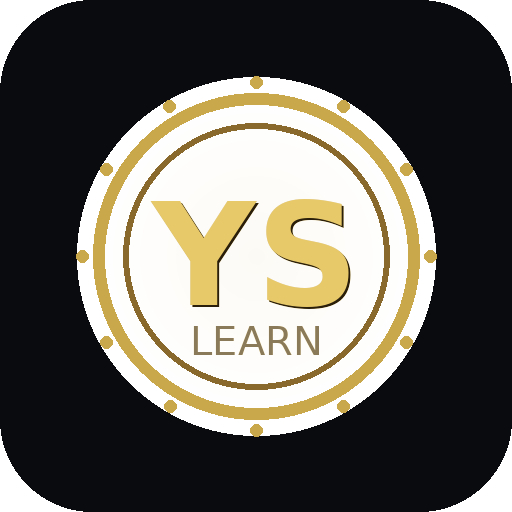
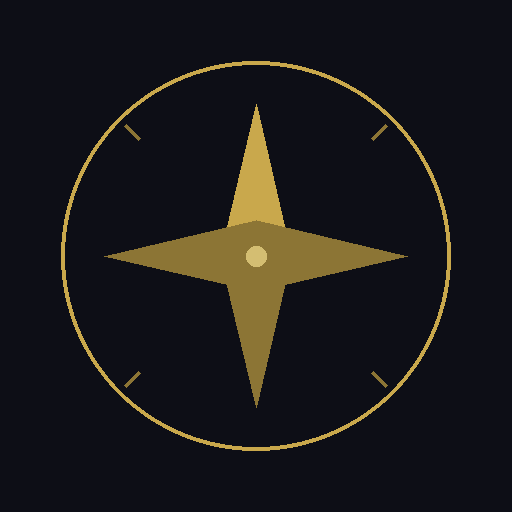
feat: 앱 아이콘 → 골드 나침반 + 대시보드 SVG 코스 아이콘 교체
- YS LEARN 이니셜 제거 → 자기계발 상징 나침반(compass rose) 디자인
- 골드(#C9A84C) + 다크(#0D0E16) MAISON DE SAVOIR 테마 통일
- 6개 아이콘 파일 교체 (180/32/192/512, maskable 포함)
- 대시보드 과목 아이콘: 이모지 → SVG 라인 아이콘
- course-icon hover 효과: 골드 글로우 전환

diff --git a/dashboard.html b/dashboard.html
@@ -68,7 +68,9 @@ a{color:inherit;text-decoration:none}button{font-family:inherit;cursor:pointer;b
 .course-card::before{content:'';position:absolute;left:0;top:0;bottom:0;width:2px;background:transparent;transition:background .3s}
 .course-card:hover{border-color:var(--gold);box-shadow:0 0 20px rgba(201,168,76,.06)}
 .course-card:hover::before{background:var(--gold)}
-.course-icon{font-size:20px;margin-bottom:8px}
+.course-icon{width:40px;height:40px;border-radius:10px;background:rgba(255,255,255,0.03);border:1px solid var(--border);display:flex;align-items:center;justify-content:center;margin-bottom:10px;transition:all .3s}
+.course-card:hover .course-icon{border-color:var(--gold);background:var(--gold-dim);color:var(--gold)!important;box-shadow:0 0 12px rgba(201,168,76,.1)}
+.course-icon svg{width:20px;height:20px}
 .course-name{font-size:14px;font-weight:400;color:var(--text);margin-bottom:12px}
 .cpb{width:100%;height:1px;background:var(--border);margin-bottom:6px}
 .cpf{height:100%;background:var(--gold);transition:width .5s}
@@ -242,7 +244,7 @@ a{color:inherit;text-decoration:none}button{font-family:inherit;cursor:pointer;b
 <script src="https://www.gstatic.com/firebasejs/10.14.1/firebase-database-compat.js"></script>
 <script>
 "use strict";
-const C=[{id:'vd',name:'차량동역학',icon:'\u2694',color:'#c23b22',folder:'VehicleDynamics_Lectures',lessons:[{d:1,f:'Day01_운동방정식유도.html',t:'운동방정식 유도'},{d:2,f:'Day02_비감쇠자유진동.html',t:'비감쇠 자유진동'},{d:3,f:'Day03_감쇠비정의.html',t:'감쇠비 정의'},{d:4,f:'Day04_부족감쇠자유진동.html',t:'부족감쇠 자유진동'},{d:5,f:'Day05_강제조화진동.html',t:'강제조화 진동'},{d:6,f:'Day06_위상각유도.html',t:'위상각 유도'},{d:7,f:'Day07_공진조건분석.html',t:'공진조건 분석'},{d:8,f:'Day08_쿼터카모델.html',t:'쿼터카 모델'},{d:9,f:'Day09_쿼터카고유진동수.html',t:'쿼터카 고유진동수'},{d:10,f:'Day10_하프카모델.html',t:'하프카 모델'},{d:11,f:'Day11_하프카모드해석.html',t:'하프카 모드해석'},{d:12,f:'Day12_전달함수유도.html',t:'전달함수 유도'},{d:13,f:'Day13_전달률방진설계.html',t:'전달률 방진설계'},{d:14,f:'Day14_노면스펙트럼승차감.html',t:'노면스펙트럼 승차감'},{d:15,f:'Day15_Part2복습.html',t:'Part2 복습'},{d:16,f:'Day16_스프링특성.html',t:'스프링 특성'},{d:17,f:'Day17_댐퍼모델.html',t:'댐퍼 모델'},{d:18,f:'Day18_부싱복소강성.html',t:'부싱 복소강성'},{d:19,f:'Day19_타이어수직동특성.html',t:'타이어 수직동특성'},{d:20,f:'Day20_TireHop.html',t:'Tire Hop'},{d:21,f:'Day21_승차감트레이드오프.html',t:'승차감 트레이드오프'},{d:22,f:'Day22_Part3복습.html',t:'Part3 복습'},{d:23,f:'Day23_푸리에변환.html',t:'푸리에 변환'},{d:24,f:'Day24_PSD정의.html',t:'PSD 정의'},{d:25,f:'Day25_FRF측정.html',t:'FRF 측정'},{d:26,f:'Day26_고유치문제.html',t:'고유치 문제'},{d:27,f:'Day27_모드중첩법.html',t:'모드중첩법'},{d:28,f:'Day28_Part4복습.html',t:'Part4 복습'},{d:29,f:'Day29_수식Simpack매핑.html',t:'수식-Simpack 매핑'},{d:30,f:'Day30_QuarterCar구현.html',t:'QuarterCar 구현'},{d:31,f:'Day31_FRF상관성.html',t:'FRF 상관성'},{d:32,f:'Day32_CoSimulation.html',t:'Co-Simulation'},{d:33,f:'Day33_디지털트윈완성.html',t:'디지털트윈 완성'},{d:34,f:'Day34_서스펜션기구학기초.html',t:'서스펜션 기구학 기초'},{d:35,f:'Day35_캠버기하학.html',t:'캠버 기하학'},{d:36,f:'Day36_토기하학.html',t:'토 기하학'},{d:37,f:'Day37_킹핀기하학.html',t:'킹핀 기하학'},{d:38,f:'Day38_롤센터안티지오메트리.html',t:'롤센터 안티지오메트리'},{d:39,f:'Day39_순간중심롤스티어.html',t:'순간중심 롤스티어'},{d:40,f:'Day40_KC시뮬레이션통합.html',t:'KC 시뮬레이션 통합'},{d:41,f:'Day41_애커만기하학.html',t:'애커만 기하학'},{d:42,f:'Day42_랙피니언역학.html',t:'랙피니언 역학'},{d:43,f:'Day43_전동파워스티어링.html',t:'전동 파워스티어링'},{d:44,f:'Day44_코너링포스슬립각.html',t:'코너링포스 슬립각'},{d:45,f:'Day45_언더오버스티어.html',t:'언더/오버스티어'},{d:46,f:'Day46_요응답전달함수.html',t:'요응답 전달함수'},{d:47,f:'Day47_디스크브레이크열역학.html',t:'디스크브레이크 열역학'},{d:48,f:'Day48_유압제동시스템.html',t:'유압 제동시스템'},{d:49,f:'Day49_제동력배분하중이동.html',t:'제동력배분 하중이동'},{d:50,f:'Day50_ABS_ESC제어.html',t:'ABS/ESC 제어'},{d:51,f:'Day51_회생제동시스템.html',t:'회생제동 시스템'},{d:52,f:'Day52_통합브레이크시스템.html',t:'통합 브레이크 시스템'},{d:53,f:'Day53_EV차량동역학.html',t:'EV 차량동역학'},{d:54,f:'Day54_안티롤바설계.html',t:'안티롤바 설계'},{d:55,f:'Day55_풀카모델.html',t:'풀카 모델'},{d:56,f:'Day56_능동반능동서스펜션.html',t:'능동/반능동 서스펜션'},{d:57,f:'Day57_컴플라이언스스티어.html',t:'컴플라이언스 스티어'},{d:58,f:'Day58_내구하중스펙트럼.html',t:'내구 하중 스펙트럼'},{d:59,f:'Day59_승차감주관평가.html',t:'승차감 주관평가'},{d:60,f:'Day60_타이어횡방향모델.html',t:'타이어 횡방향 모델'},{d:61,f:'Udemy/section1.html',t:'[Udemy] Suspension Modeling'},{d:62,f:'Udemy/section2.html',t:'[Udemy] Differential Equations'},{d:63,f:'Udemy/section3.html',t:'[Udemy] Linearization'},{d:64,f:'Udemy/section4.html',t:'[Udemy] State-Space System'},{d:65,f:'Udemy/section5.html',t:'[Udemy] Last Words'}]},{id:'en',name:'에너지관리',icon:'\u26A1',color:'#4a8b5c',folder:'Energy_Lectures',lessons:[{d:1,f:'day01_energy_systems.html',t:'에너지 시스템'},{d:2,f:'day02_mitochondria.html',t:'미토콘드리아'},{d:3,f:'day03_hormones.html',t:'호르몬'},{d:4,f:'day04_autonomic.html',t:'자율신경계'},{d:5,f:'day05_review.html',t:'Part1 복습'},{d:6,f:'day06_sleep_architecture.html',t:'수면 구조'},{d:7,f:'day07_sleep_hormones.html',t:'수면 호르몬'},{d:8,f:'day08_sleep_environment.html',t:'수면 환경'},{d:9,f:'day09_sleep_debt.html',t:'수면 부채'},{d:10,f:'day10_sleep_tracking.html',t:'수면 추적'},{d:11,f:'day11_nutrition_basics.html',t:'영양 기초'},{d:12,f:'day12_protein.html',t:'단백질'},{d:13,f:'day13_carbs.html',t:'탄수화물'},{d:14,f:'day14_fats_micros.html',t:'지방·미량영양소'},{d:15,f:'day15_hydration_caffeine.html',t:'수분·카페인'},{d:16,f:'day16_meal_timing.html',t:'식사 타이밍'},{d:17,f:'day17_nutrition_review.html',t:'영양 복습'},{d:18,f:'day18_hypertrophy_science.html',t:'근비대 과학'},{d:19,f:'day19_big_three.html',t:'빅3 운동'},{d:20,f:'day20_upper_body.html',t:'상체 운동'},{d:21,f:'day21_lower_core.html',t:'하체·코어'},{d:22,f:'day22_periodization.html',t:'주기화'},{d:23,f:'day23_injury_mobility.html',t:'부상·모빌리티'},{d:24,f:'day24_recovery.html',t:'회복'},{d:25,f:'day25_weight_review.html',t:'웨이트 복습'},{d:26,f:'day26_vo2max_lactate.html',t:'VO2max·젖산'},{d:27,f:'day27_running_form.html',t:'러닝 폼'},{d:28,f:'day28_interval_training.html',t:'인터벌 트레이닝'},{d:29,f:'day29_zone_training.html',t:'존 트레이닝'},{d:30,f:'day30_concurrent_training.html',t:'동시 트레이닝'},{d:31,f:'day31_running_review.html',t:'러닝 복습'},{d:32,f:'day32_hrv.html',t:'HRV'},{d:33,f:'day33_immune_energy.html',t:'면역·에너지'},{d:34,f:'day34_fatigue_overtraining.html',t:'피로·과훈련'},{d:35,f:'day35_travel_seasonal.html',t:'여행·시즌'},{d:36,f:'day36_condition_review.html',t:'컨디션 복습'},{d:37,f:'day37_morning_routine.html',t:'아침 루틴'},{d:38,f:'day38_evening_routine.html',t:'저녁 루틴'},{d:39,f:'day39_weekend_routine.html',t:'주말 루틴'},{d:40,f:'day40_routine_review.html',t:'루틴 복습'},{d:41,f:'day41_stress_neuroscience.html',t:'스트레스 신경과학'},{d:42,f:'day42_meditation_breathwork.html',t:'명상·호흡'},{d:43,f:'day43_flow_state.html',t:'몰입 상태'},{d:44,f:'day44_emotional_regulation.html',t:'감정 조절'},{d:45,f:'day45_mental_review.html',t:'멘탈 복습'},{d:46,f:'day46_biohacking_tech.html',t:'바이오해킹'},{d:47,f:'day47_supplementation.html',t:'보충제'},{d:48,f:'day48_social_energy.html',t:'사회적 에너지'},{d:49,f:'day49_digital_detox.html',t:'디지털 디톡스'},{d:50,f:'day50_final_integration.html',t:'최종 통합'}]},{id:'hu',name:'인간학',icon:'\uD83E\uDDE0',color:'#8a6abf',folder:'Human_Lectures',lessons:[{d:1,f:'day01_감정이란_무엇인가.html',t:'감정이란 무엇인가'},{d:2,f:'day02_스트레스_호르몬_회로.html',t:'스트레스 호르몬 회로'},{d:3,f:'day03_INFP_감정처리_패턴.html',t:'INFP 감정처리 패턴'},{d:4,f:'day04_인지적_재평가.html',t:'인지적 재평가'},{d:5,f:'day05_메타인지_훈련.html',t:'메타인지 훈련'},{d:6,f:'day06_감정조절_실전_직장.html',t:'감정조절 실전 직장'},{d:7,f:'day07_신뢰의_신경과학.html',t:'신뢰의 신경과학'},{d:8,f:'day08_공감의_두_종류.html',t:'공감의 두 종류'},{d:9,f:'day09_어서티브_커뮤니케이션.html',t:'어서티브 커뮤니케이션'},{d:10,f:'day10_갈등의_신경과학.html',t:'갈등의 신경과학'},{d:11,f:'day11_피드백_주고받기.html',t:'피드백 주고받기'},{d:12,f:'day12_통합복습_Part1_2.html',t:'통합복습 Part1-2'},{d:13,f:'day13_스토아_통제의_이분법.html',t:'스토아 통제의 이분법'},{d:14,f:'day14_아우렐리우스_실천.html',t:'아우렐리우스 실천'},{d:15,f:'day15_불교적_무상관.html',t:'불교적 무상관'},{d:16,f:'day16_프랭클_의미치료.html',t:'프랭클 의미치료'},{d:17,f:'day17_흐름_상태.html',t:'흐름 상태'},{d:18,f:'day18_철학_프레임_통합.html',t:'철학 프레임 통합'},{d:19,f:'day19_가치관_명료화.html',t:'가치관 명료화'},{d:20,f:'day20_정체성과_역할_통합.html',t:'정체성과 역할 통합'},{d:21,f:'day21_결정의_철학.html',t:'결정의 철학'},{d:22,f:'day22_나만의_감정관리_시스템.html',t:'나만의 감정관리 시스템'}]},{id:'fr',name:'프랑스어',icon:'\uD83C\uDDEB\uD83C\uDDF7',color:'#bf8a4a',folder:'Franch_Lectures',lessons:[{d:1,f:'day-01-pronunciation.html',t:'발음'},{d:2,f:'day-02-greetings.html',t:'인사'},{d:3,f:'day-03-vocab-partA.html',t:'어휘 A'},{d:4,f:'day-04-vocab-partB.html',t:'어휘 B'},{d:5,f:'day-05-numbers-units.html',t:'숫자·단위'},{d:6,f:'day-06-email-expressions.html',t:'이메일 표현'},{d:7,f:'day-07-review-part1.html',t:'Part1 복습'},{d:8,f:'day-08-meeting-expressions.html',t:'회의 표현'},{d:9,f:'day-09-technical-explanation.html',t:'기술 설명'},{d:10,f:'day-10-problem-reporting.html',t:'문제 보고'},{d:11,f:'day-11-scheduling.html',t:'일정 조율'},{d:12,f:'day-12-presentation.html',t:'프레젠테이션'},{d:13,f:'day-13-negotiation.html',t:'협상'},{d:14,f:'day-14-review-part2.html',t:'Part2 복습'},{d:15,f:'day-15-present-tense.html',t:'현재시제'},{d:16,f:'day-16-passe-compose.html',t:'복합과거'},{d:17,f:'day-17-conditionnel.html',t:'조건법'},{d:18,f:'day-18-passive-impersonal.html',t:'수동·비인칭'},{d:19,f:'day-19-questions-negation.html',t:'의문·부정'},{d:20,f:'day-20-review-part3.html',t:'Part3 복습'},{d:21,f:'day-21-french-culture.html',t:'프랑스 문화'},{d:22,f:'day-22-email-correction.html',t:'이메일 교정'},{d:23,f:'day-23-roleplay-meeting.html',t:'롤플레이 회의'},{d:24,f:'day-24-roleplay-email.html',t:'롤플레이 이메일'},{d:25,f:'day-25-self-intro-presentation.html',t:'자기소개 PT'},{d:26,f:'day-26-final-review.html',t:'최종 복습'}]},{id:'pa',name:'육아·부학',icon:'\uD83D\uDC76',color:'#4abfbf',folder:'Parenting_Lectures',lessons:[{d:1,f:'day01_brain_development.html',t:'뇌 발달'},{d:2,f:'day02_attachment_theory.html',t:'애착 이론'},{d:3,f:'day03_dad_play_neuroscience.html',t:'아빠 놀이 신경과학'},{d:4,f:'day04_self_regulation.html',t:'자기 조절'},{d:5,f:'day05_cognitive_development.html',t:'인지 발달'},{d:6,f:'day06_language_explosion.html',t:'언어 폭발'},{d:7,f:'day07_part1_review.html',t:'Part1 복습'},{d:8,f:'day08_sibling_jealousy.html',t:'형제 질투'},{d:9,f:'day09_fairness_equity.html',t:'공정·형평'},{d:10,f:'day10_sibling_cooperation.html',t:'형제 협력'},{d:11,f:'day11_one_on_one_time.html',t:'1:1 시간'},{d:12,f:'day12_part2_review.html',t:'Part2 복습'},{d:13,f:'day13_parenting_stress.html',t:'양육 스트레스'},{d:14,f:'day14_gottman_marriage_science.html',t:'가트만 부부과학'},{d:15,f:'day15_dual_income_communication.html',t:'맞벌이 소통'},{d:16,f:'day16_coparenting_alignment.html',t:'공동양육 정렬'},{d:17,f:'day17_part3_review.html',t:'Part3 복습'},{d:18,f:'day18_focused_play_design.html',t:'집중놀이 설계'},{d:19,f:'day19_bedtime_routine.html',t:'취침 루틴'},{d:20,f:'day20_emotion_coaching.html',t:'감정 코칭'},{d:21,f:'day21_dad_routine_system.html',t:'아빠 루틴 시스템'}]},{id:'ec',name:'재테크',icon:'\uD83D\uDCB0',color:'#c9a84c',folder:'Economics_Lectures',lessons:[{d:1,f:'day01_financial_goal_setting.html',t:'재무 목표 설정'},{d:2,f:'day02_compound_interest.html',t:'복리의 힘'},{d:3,f:'day03_asset_pipeline.html',t:'자산 파이프라인'},{d:4,f:'day04_mortgage_optimization.html',t:'대출 최적화'},{d:5,f:'day05_risk_assessment.html',t:'리스크 평가'},{d:6,f:'day06_behavioral_finance.html',t:'행동재무학'},{d:7,f:'day07_part1_review.html',t:'Part1 복습'},{d:8,f:'day08_valuation_basics.html',t:'밸류에이션 기초'},{d:9,f:'day09_semiconductor_analysis.html',t:'반도체 분석'},{d:10,f:'day10_financial_statements.html',t:'재무제표'},{d:11,f:'day11_technical_analysis.html',t:'기술적 분석'},{d:12,f:'day12_timing_principles.html',t:'타이밍 원칙'},{d:13,f:'day13_kospi_discount.html',t:'KOSPI 디스카운트'},{d:14,f:'day14_part2_review.html',t:'Part2 복습'},{d:15,f:'day15_real_estate_cycle.html',t:'부동산 사이클'},{d:16,f:'day16_house_swap_simulation.html',t:'갈아타기 시뮬레이션'},{d:17,f:'day17_rebalancing.html',t:'리밸런싱'},{d:18,f:'day18_global_diversification.html',t:'글로벌 분산투자'},{d:19,f:'day19_part3_review.html',t:'Part3 복습'},{d:20,f:'day20_tax_optimization.html',t:'절세 전략'},{d:21,f:'day21_financial_income_tax.html',t:'금융소득세'},{d:22,f:'day22_financial_automation.html',t:'재무 자동화'},{d:23,f:'day23_final_roadmap.html',t:'최종 로드맵'}]}];
+const C=[{id:'vd',name:'차량동역학',icon:'<svg viewBox="0 0 24 24" fill="none" stroke="currentColor" stroke-width="1.4" stroke-linecap="round"><line x1="12" y1="2" x2="12" y2="5"/><path d="M7 7l5 2 5-2M7 11l5 2 5-2M7 15l5 2 5-2"/><line x1="12" y1="19" x2="12" y2="22"/></svg>',color:'#c23b22',folder:'VehicleDynamics_Lectures',lessons:[{d:1,f:'Day01_운동방정식유도.html',t:'운동방정식 유도'},{d:2,f:'Day02_비감쇠자유진동.html',t:'비감쇠 자유진동'},{d:3,f:'Day03_감쇠비정의.html',t:'감쇠비 정의'},{d:4,f:'Day04_부족감쇠자유진동.html',t:'부족감쇠 자유진동'},{d:5,f:'Day05_강제조화진동.html',t:'강제조화 진동'},{d:6,f:'Day06_위상각유도.html',t:'위상각 유도'},{d:7,f:'Day07_공진조건분석.html',t:'공진조건 분석'},{d:8,f:'Day08_쿼터카모델.html',t:'쿼터카 모델'},{d:9,f:'Day09_쿼터카고유진동수.html',t:'쿼터카 고유진동수'},{d:10,f:'Day10_하프카모델.html',t:'하프카 모델'},{d:11,f:'Day11_하프카모드해석.html',t:'하프카 모드해석'},{d:12,f:'Day12_전달함수유도.html',t:'전달함수 유도'},{d:13,f:'Day13_전달률방진설계.html',t:'전달률 방진설계'},{d:14,f:'Day14_노면스펙트럼승차감.html',t:'노면스펙트럼 승차감'},{d:15,f:'Day15_Part2복습.html',t:'Part2 복습'},{d:16,f:'Day16_스프링특성.html',t:'스프링 특성'},{d:17,f:'Day17_댐퍼모델.html',t:'댐퍼 모델'},{d:18,f:'Day18_부싱복소강성.html',t:'부싱 복소강성'},{d:19,f:'Day19_타이어수직동특성.html',t:'타이어 수직동특성'},{d:20,f:'Day20_TireHop.html',t:'Tire Hop'},{d:21,f:'Day21_승차감트레이드오프.html',t:'승차감 트레이드오프'},{d:22,f:'Day22_Part3복습.html',t:'Part3 복습'},{d:23,f:'Day23_푸리에변환.html',t:'푸리에 변환'},{d:24,f:'Day24_PSD정의.html',t:'PSD 정의'},{d:25,f:'Day25_FRF측정.html',t:'FRF 측정'},{d:26,f:'Day26_고유치문제.html',t:'고유치 문제'},{d:27,f:'Day27_모드중첩법.html',t:'모드중첩법'},{d:28,f:'Day28_Part4복습.html',t:'Part4 복습'},{d:29,f:'Day29_수식Simpack매핑.html',t:'수식-Simpack 매핑'},{d:30,f:'Day30_QuarterCar구현.html',t:'QuarterCar 구현'},{d:31,f:'Day31_FRF상관성.html',t:'FRF 상관성'},{d:32,f:'Day32_CoSimulation.html',t:'Co-Simulation'},{d:33,f:'Day33_디지털트윈완성.html',t:'디지털트윈 완성'},{d:34,f:'Day34_서스펜션기구학기초.html',t:'서스펜션 기구학 기초'},{d:35,f:'Day35_캠버기하학.html',t:'캠버 기하학'},{d:36,f:'Day36_토기하학.html',t:'토 기하학'},{d:37,f:'Day37_킹핀기하학.html',t:'킹핀 기하학'},{d:38,f:'Day38_롤센터안티지오메트리.html',t:'롤센터 안티지오메트리'},{d:39,f:'Day39_순간중심롤스티어.html',t:'순간중심 롤스티어'},{d:40,f:'Day40_KC시뮬레이션통합.html',t:'KC 시뮬레이션 통합'},{d:41,f:'Day41_애커만기하학.html',t:'애커만 기하학'},{d:42,f:'Day42_랙피니언역학.html',t:'랙피니언 역학'},{d:43,f:'Day43_전동파워스티어링.html',t:'전동 파워스티어링'},{d:44,f:'Day44_코너링포스슬립각.html',t:'코너링포스 슬립각'},{d:45,f:'Day45_언더오버스티어.html',t:'언더/오버스티어'},{d:46,f:'Day46_요응답전달함수.html',t:'요응답 전달함수'},{d:47,f:'Day47_디스크브레이크열역학.html',t:'디스크브레이크 열역학'},{d:48,f:'Day48_유압제동시스템.html',t:'유압 제동시스템'},{d:49,f:'Day49_제동력배분하중이동.html',t:'제동력배분 하중이동'},{d:50,f:'Day50_ABS_ESC제어.html',t:'ABS/ESC 제어'},{d:51,f:'Day51_회생제동시스템.html',t:'회생제동 시스템'},{d:52,f:'Day52_통합브레이크시스템.html',t:'통합 브레이크 시스템'},{d:53,f:'Day53_EV차량동역학.html',t:'EV 차량동역학'},{d:54,f:'Day54_안티롤바설계.html',t:'안티롤바 설계'},{d:55,f:'Day55_풀카모델.html',t:'풀카 모델'},{d:56,f:'Day56_능동반능동서스펜션.html',t:'능동/반능동 서스펜션'},{d:57,f:'Day57_컴플라이언스스티어.html',t:'컴플라이언스 스티어'},{d:58,f:'Day58_내구하중스펙트럼.html',t:'내구 하중 스펙트럼'},{d:59,f:'Day59_승차감주관평가.html',t:'승차감 주관평가'},{d:60,f:'Day60_타이어횡방향모델.html',t:'타이어 횡방향 모델'},{d:61,f:'Udemy/section1.html',t:'[Udemy] Suspension Modeling'},{d:62,f:'Udemy/section2.html',t:'[Udemy] Differential Equations'},{d:63,f:'Udemy/section3.html',t:'[Udemy] Linearization'},{d:64,f:'Udemy/section4.html',t:'[Udemy] State-Space System'},{d:65,f:'Udemy/section5.html',t:'[Udemy] Last Words'}]},{id:'en',name:'에너지관리',icon:'<svg viewBox="0 0 24 24" fill="none" stroke="currentColor" stroke-width="1.4" stroke-linecap="round" stroke-linejoin="round"><polyline points="2,12 6,12 9,4 12,20 15,8 18,12 22,12"/></svg>',color:'#4a8b5c',folder:'Energy_Lectures',lessons:[{d:1,f:'day01_energy_systems.html',t:'에너지 시스템'},{d:2,f:'day02_mitochondria.html',t:'미토콘드리아'},{d:3,f:'day03_hormones.html',t:'호르몬'},{d:4,f:'day04_autonomic.html',t:'자율신경계'},{d:5,f:'day05_review.html',t:'Part1 복습'},{d:6,f:'day06_sleep_architecture.html',t:'수면 구조'},{d:7,f:'day07_sleep_hormones.html',t:'수면 호르몬'},{d:8,f:'day08_sleep_environment.html',t:'수면 환경'},{d:9,f:'day09_sleep_debt.html',t:'수면 부채'},{d:10,f:'day10_sleep_tracking.html',t:'수면 추적'},{d:11,f:'day11_nutrition_basics.html',t:'영양 기초'},{d:12,f:'day12_protein.html',t:'단백질'},{d:13,f:'day13_carbs.html',t:'탄수화물'},{d:14,f:'day14_fats_micros.html',t:'지방·미량영양소'},{d:15,f:'day15_hydration_caffeine.html',t:'수분·카페인'},{d:16,f:'day16_meal_timing.html',t:'식사 타이밍'},{d:17,f:'day17_nutrition_review.html',t:'영양 복습'},{d:18,f:'day18_hypertrophy_science.html',t:'근비대 과학'},{d:19,f:'day19_big_three.html',t:'빅3 운동'},{d:20,f:'day20_upper_body.html',t:'상체 운동'},{d:21,f:'day21_lower_core.html',t:'하체·코어'},{d:22,f:'day22_periodization.html',t:'주기화'},{d:23,f:'day23_injury_mobility.html',t:'부상·모빌리티'},{d:24,f:'day24_recovery.html',t:'회복'},{d:25,f:'day25_weight_review.html',t:'웨이트 복습'},{d:26,f:'day26_vo2max_lactate.html',t:'VO2max·젖산'},{d:27,f:'day27_running_form.html',t:'러닝 폼'},{d:28,f:'day28_interval_training.html',t:'인터벌 트레이닝'},{d:29,f:'day29_zone_training.html',t:'존 트레이닝'},{d:30,f:'day30_concurrent_training.html',t:'동시 트레이닝'},{d:31,f:'day31_running_review.html',t:'러닝 복습'},{d:32,f:'day32_hrv.html',t:'HRV'},{d:33,f:'day33_immune_energy.html',t:'면역·에너지'},{d:34,f:'day34_fatigue_overtraining.html',t:'피로·과훈련'},{d:35,f:'day35_travel_seasonal.html',t:'여행·시즌'},{d:36,f:'day36_condition_review.html',t:'컨디션 복습'},{d:37,f:'day37_morning_routine.html',t:'아침 루틴'},{d:38,f:'day38_evening_routine.html',t:'저녁 루틴'},{d:39,f:'day39_weekend_routine.html',t:'주말 루틴'},{d:40,f:'day40_routine_review.html',t:'루틴 복습'},{d:41,f:'day41_stress_neuroscience.html',t:'스트레스 신경과학'},{d:42,f:'day42_meditation_breathwork.html',t:'명상·호흡'},{d:43,f:'day43_flow_state.html',t:'몰입 상태'},{d:44,f:'day44_emotional_regulation.html',t:'감정 조절'},{d:45,f:'day45_mental_review.html',t:'멘탈 복습'},{d:46,f:'day46_biohacking_tech.html',t:'바이오해킹'},{d:47,f:'day47_supplementation.html',t:'보충제'},{d:48,f:'day48_social_energy.html',t:'사회적 에너지'},{d:49,f:'day49_digital_detox.html',t:'디지털 디톡스'},{d:50,f:'day50_final_integration.html',t:'최종 통합'}]},{id:'hu',name:'인간학',icon:'<svg viewBox="0 0 24 24" fill="none" stroke="currentColor" stroke-width="1.4" stroke-linecap="round"><circle cx="12" cy="7" r="4"/><path d="M4 22c0-4.4 3.6-8 8-8s8 3.6 8 8"/></svg>',color:'#8a6abf',folder:'Human_Lectures',lessons:[{d:1,f:'day01_감정이란_무엇인가.html',t:'감정이란 무엇인가'},{d:2,f:'day02_스트레스_호르몬_회로.html',t:'스트레스 호르몬 회로'},{d:3,f:'day03_INFP_감정처리_패턴.html',t:'INFP 감정처리 패턴'},{d:4,f:'day04_인지적_재평가.html',t:'인지적 재평가'},{d:5,f:'day05_메타인지_훈련.html',t:'메타인지 훈련'},{d:6,f:'day06_감정조절_실전_직장.html',t:'감정조절 실전 직장'},{d:7,f:'day07_신뢰의_신경과학.html',t:'신뢰의 신경과학'},{d:8,f:'day08_공감의_두_종류.html',t:'공감의 두 종류'},{d:9,f:'day09_어서티브_커뮤니케이션.html',t:'어서티브 커뮤니케이션'},{d:10,f:'day10_갈등의_신경과학.html',t:'갈등의 신경과학'},{d:11,f:'day11_피드백_주고받기.html',t:'피드백 주고받기'},{d:12,f:'day12_통합복습_Part1_2.html',t:'통합복습 Part1-2'},{d:13,f:'day13_스토아_통제의_이분법.html',t:'스토아 통제의 이분법'},{d:14,f:'day14_아우렐리우스_실천.html',t:'아우렐리우스 실천'},{d:15,f:'day15_불교적_무상관.html',t:'불교적 무상관'},{d:16,f:'day16_프랭클_의미치료.html',t:'프랭클 의미치료'},{d:17,f:'day17_흐름_상태.html',t:'흐름 상태'},{d:18,f:'day18_철학_프레임_통합.html',t:'철학 프레임 통합'},{d:19,f:'day19_가치관_명료화.html',t:'가치관 명료화'},{d:20,f:'day20_정체성과_역할_통합.html',t:'정체성과 역할 통합'},{d:21,f:'day21_결정의_철학.html',t:'결정의 철학'},{d:22,f:'day22_나만의_감정관리_시스템.html',t:'나만의 감정관리 시스템'}]},{id:'fr',name:'프랑스어',icon:'<svg viewBox="0 0 24 24" fill="none" stroke="currentColor" stroke-width="1.4" stroke-linecap="round" stroke-linejoin="round"><path d="M2 4h7c2 0 3 1 3 2v14c-1-1-2-1-3-1H2V4z"/><path d="M22 4h-7c-2 0-3 1-3 2v14c1-1 2-1 3-1h7V4z"/></svg>',color:'#bf8a4a',folder:'Franch_Lectures',lessons:[{d:1,f:'day-01-pronunciation.html',t:'발음'},{d:2,f:'day-02-greetings.html',t:'인사'},{d:3,f:'day-03-vocab-partA.html',t:'어휘 A'},{d:4,f:'day-04-vocab-partB.html',t:'어휘 B'},{d:5,f:'day-05-numbers-units.html',t:'숫자·단위'},{d:6,f:'day-06-email-expressions.html',t:'이메일 표현'},{d:7,f:'day-07-review-part1.html',t:'Part1 복습'},{d:8,f:'day-08-meeting-expressions.html',t:'회의 표현'},{d:9,f:'day-09-technical-explanation.html',t:'기술 설명'},{d:10,f:'day-10-problem-reporting.html',t:'문제 보고'},{d:11,f:'day-11-scheduling.html',t:'일정 조율'},{d:12,f:'day-12-presentation.html',t:'프레젠테이션'},{d:13,f:'day-13-negotiation.html',t:'협상'},{d:14,f:'day-14-review-part2.html',t:'Part2 복습'},{d:15,f:'day-15-present-tense.html',t:'현재시제'},{d:16,f:'day-16-passe-compose.html',t:'복합과거'},{d:17,f:'day-17-conditionnel.html',t:'조건법'},{d:18,f:'day-18-passive-impersonal.html',t:'수동·비인칭'},{d:19,f:'day-19-questions-negation.html',t:'의문·부정'},{d:20,f:'day-20-review-part3.html',t:'Part3 복습'},{d:21,f:'day-21-french-culture.html',t:'프랑스 문화'},{d:22,f:'day-22-email-correction.html',t:'이메일 교정'},{d:23,f:'day-23-roleplay-meeting.html',t:'롤플레이 회의'},{d:24,f:'day-24-roleplay-email.html',t:'롤플레이 이메일'},{d:25,f:'day-25-self-intro-presentation.html',t:'자기소개 PT'},{d:26,f:'day-26-final-review.html',t:'최종 복습'}]},{id:'pa',name:'육아·부학',icon:'<svg viewBox="0 0 24 24" fill="none" stroke="currentColor" stroke-width="1.4" stroke-linecap="round" stroke-linejoin="round"><path d="M20.84 4.61a5.5 5.5 0 0 0-7.78 0L12 5.67l-1.06-1.06a5.5 5.5 0 0 0-7.78 7.78L12 21.23l8.84-8.84a5.5 5.5 0 0 0 0-7.78z"/></svg>',color:'#4abfbf',folder:'Parenting_Lectures',lessons:[{d:1,f:'day01_brain_development.html',t:'뇌 발달'},{d:2,f:'day02_attachment_theory.html',t:'애착 이론'},{d:3,f:'day03_dad_play_neuroscience.html',t:'아빠 놀이 신경과학'},{d:4,f:'day04_self_regulation.html',t:'자기 조절'},{d:5,f:'day05_cognitive_development.html',t:'인지 발달'},{d:6,f:'day06_language_explosion.html',t:'언어 폭발'},{d:7,f:'day07_part1_review.html',t:'Part1 복습'},{d:8,f:'day08_sibling_jealousy.html',t:'형제 질투'},{d:9,f:'day09_fairness_equity.html',t:'공정·형평'},{d:10,f:'day10_sibling_cooperation.html',t:'형제 협력'},{d:11,f:'day11_one_on_one_time.html',t:'1:1 시간'},{d:12,f:'day12_part2_review.html',t:'Part2 복습'},{d:13,f:'day13_parenting_stress.html',t:'양육 스트레스'},{d:14,f:'day14_gottman_marriage_science.html',t:'가트만 부부과학'},{d:15,f:'day15_dual_income_communication.html',t:'맞벌이 소통'},{d:16,f:'day16_coparenting_alignment.html',t:'공동양육 정렬'},{d:17,f:'day17_part3_review.html',t:'Part3 복습'},{d:18,f:'day18_focused_play_design.html',t:'집중놀이 설계'},{d:19,f:'day19_bedtime_routine.html',t:'취침 루틴'},{d:20,f:'day20_emotion_coaching.html',t:'감정 코칭'},{d:21,f:'day21_dad_routine_system.html',t:'아빠 루틴 시스템'}]},{id:'ec',name:'재테크',icon:'<svg viewBox="0 0 24 24" fill="none" stroke="currentColor" stroke-width="1.4" stroke-linecap="round" stroke-linejoin="round"><polyline points="4,18 9,12 13,15 20,6"/><polyline points="15,6 20,6 20,11"/></svg>',color:'#c9a84c',folder:'Economics_Lectures',lessons:[{d:1,f:'day01_financial_goal_setting.html',t:'재무 목표 설정'},{d:2,f:'day02_compound_interest.html',t:'복리의 힘'},{d:3,f:'day03_asset_pipeline.html',t:'자산 파이프라인'},{d:4,f:'day04_mortgage_optimization.html',t:'대출 최적화'},{d:5,f:'day05_risk_assessment.html',t:'리스크 평가'},{d:6,f:'day06_behavioral_finance.html',t:'행동재무학'},{d:7,f:'day07_part1_review.html',t:'Part1 복습'},{d:8,f:'day08_valuation_basics.html',t:'밸류에이션 기초'},{d:9,f:'day09_semiconductor_analysis.html',t:'반도체 분석'},{d:10,f:'day10_financial_statements.html',t:'재무제표'},{d:11,f:'day11_technical_analysis.html',t:'기술적 분석'},{d:12,f:'day12_timing_principles.html',t:'타이밍 원칙'},{d:13,f:'day13_kospi_discount.html',t:'KOSPI 디스카운트'},{d:14,f:'day14_part2_review.html',t:'Part2 복습'},{d:15,f:'day15_real_estate_cycle.html',t:'부동산 사이클'},{d:16,f:'day16_house_swap_simulation.html',t:'갈아타기 시뮬레이션'},{d:17,f:'day17_rebalancing.html',t:'리밸런싱'},{d:18,f:'day18_global_diversification.html',t:'글로벌 분산투자'},{d:19,f:'day19_part3_review.html',t:'Part3 복습'},{d:20,f:'day20_tax_optimization.html',t:'절세 전략'},{d:21,f:'day21_financial_income_tax.html',t:'금융소득세'},{d:22,f:'day22_financial_automation.html',t:'재무 자동화'},{d:23,f:'day23_final_roadmap.html',t:'최종 로드맵'}]}];
 
 const CATS={mind:{name:'마음',label:'ESPRIT'},family:{name:'가족',label:'FAMILLE'},energy:{name:'체력',label:'\u00C9NERGIE'},money:{name:'재무',label:'FINANCE'},work:{name:'직장',label:'TRAVAIL'},french:{name:'프랑스어',label:'FRAN\u00C7AIS'},vehicle:{name:'차량',label:'V\u00C9HICULE'},routine:{name:'루틴',label:'ROUTINE'},crossroad:{name:'갈림길',label:'CARREFOUR'},integrated:{name:'통합',label:'SYNTH\u00C8SE'}};
 
@@ -478,7 +480,7 @@ function renderReviewQueue(){
 // ═══ TAB 2: PARCOURS ═══
 function renderCourseGrid(){
   const el=document.getElementById('courseGrid');let h='';
-  C.forEach(function(c){const done=getProgress(c.id),total=c.lessons.length,pct=total?Math.round(done.length/total*100):0;h+='<div class="course-card" data-cid="'+c.id+'"><div class="course-icon">'+c.icon+'</div><div class="course-name">'+esc(c.name)+'</div><div class="cpb"><div class="cpf" style="width:'+pct+'%;background:'+c.color+'"></div></div><div class="cpt">'+done.length+'/'+total+' ('+pct+'%)</div></div>'});
+  C.forEach(function(c){const done=getProgress(c.id),total=c.lessons.length,pct=total?Math.round(done.length/total*100):0;h+='<div class="course-card" data-cid="'+c.id+'"><div class="course-icon" style="color:'+c.color+'">'+c.icon+'</div><div class="course-name">'+esc(c.name)+'</div><div class="cpb"><div class="cpf" style="width:'+pct+'%;background:'+c.color+'"></div></div><div class="cpt">'+done.length+'/'+total+' ('+pct+'%)</div></div>'});
   el.innerHTML=h;
   el.querySelectorAll('.course-card').forEach(function(card){card.addEventListener('click',function(){showLessonList(card.dataset.cid)})});
 }
